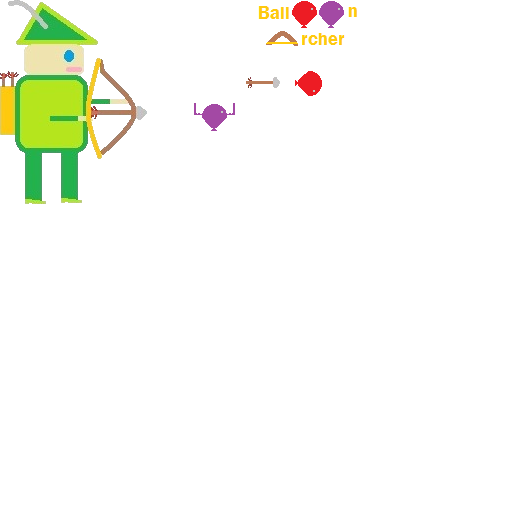
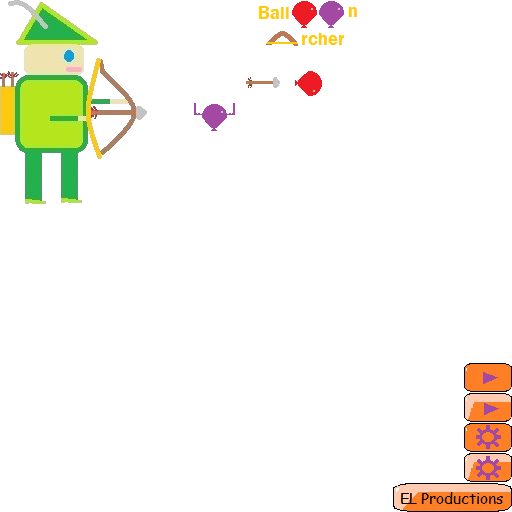
Menu Screen Backgrounds

Changed region(s): [[0.75, 0.6875, 1.0, 1.0]]

diff --git a/core/src/com/el/balloonArcher/screens/MenuScreen.java b/core/src/com/el/balloonArcher/screens/MenuScreen.java
@@ -3,7 +3,10 @@ package com.el.balloonArcher.screens;
 import com.badlogic.gdx.Game;
 import com.badlogic.gdx.Gdx;
 import com.badlogic.gdx.graphics.GL20;
+import com.badlogic.gdx.graphics.Texture;
 import com.badlogic.gdx.graphics.g2d.TextureAtlas;
+import com.badlogic.gdx.graphics.g2d.TextureRegion;
+import com.badlogic.gdx.scenes.scene2d.Actor;
 import com.badlogic.gdx.scenes.scene2d.Stage;
 import com.badlogic.gdx.scenes.scene2d.ui.Button;
 import com.badlogic.gdx.scenes.scene2d.ui.CheckBox;
@@ -14,6 +17,9 @@ import com.badlogic.gdx.scenes.scene2d.ui.Stack;
 import com.badlogic.gdx.scenes.scene2d.ui.Table;
 import com.badlogic.gdx.scenes.scene2d.ui.TextButton;
 import com.badlogic.gdx.scenes.scene2d.ui.Window;
+import com.badlogic.gdx.scenes.scene2d.utils.ChangeListener;
+import com.badlogic.gdx.scenes.scene2d.utils.Drawable;
+import com.badlogic.gdx.utils.viewport.StretchViewport;
 import com.el.balloonArcher.util.Constants;
 
 /**
@@ -42,7 +48,7 @@ public class MenuScreen extends AbstractGameScreen
     private Slider sldSound;
     private CheckBox chkMusic;
     private Slider sldMusic;
-    private SelectBox<CharacterSkin> selCharSkin;
+   // private SelectBox<CharacterSkin> selCharSkin;
     private Image imgCharSkin;
     private CheckBox chkShowFpsCounter;
     // debug
@@ -61,23 +67,62 @@ public class MenuScreen extends AbstractGameScreen
         Gdx.gl.glClearColor(0.0f, 0.0f, 0.0f, 1.0f);
         Gdx.gl.glClear(GL20.GL_COLOR_BUFFER_BIT);
 
-        if(Gdx.input.isTouched())
+  /*      if(Gdx.input.isTouched())
         {
             game.setScreen(new GameScreen(game));
         }
+*/
+        if (debugEnabled)
+        {
+            debugRebuildStage -= deltaTime;
+            if (debugRebuildStage <= 0)
+            {
+                debugRebuildStage = DEBUG_REBUILD_INTERVAL;
+                rebuildStage();
+            }
+        }
+
+        stage.act(deltaTime);
+        stage.draw();
+        //Table.drawDebug(stage);
     }
 
-    @Override public void resize (int width, int height) { }
-    @Override public void show () { }
-    @Override public void hide () { }
+    @Override public void resize (int width, int height)
+    {
+        stage.getViewport().update(width, height, true);
+    }
+
+    @Override public void show ()
+    {
+        stage = new Stage(new StretchViewport(Gdx.graphics.getWidth(), Gdx.graphics.getHeight()));
+        Gdx.input.setInputProcessor(stage);
+        rebuildStage();
+    }
+
+    @Override public void hide ()
+    {
+        stage.dispose();
+        skinBalloonArcher.dispose();
+    }
+
     @Override public void pause () { }
 
     private void rebuildStage ()
     {
 
-        skinBalloonArcher = new Skin(
+      /*  skinBalloonArcher = new Skin(
                 Gdx.files.internal(Constants.SKIN_BALLOONARCHER_UI),
-                new TextureAtlas(Constants.TEXTURE_ATLAS_UI));
+                new TextureAtlas(Constants.TEXTURE_ATLAS_UI));*/
+
+        skinBalloonArcher = new Skin();
+        skinBalloonArcher.add("logo",new TextureRegion(new Texture("images/main_screen_background.png"),258,0,100,47));
+        skinBalloonArcher.add("balloons",new TextureRegion(new Texture("images/main_screen_background.png"),188,71,135,61));
+        skinBalloonArcher.add("archer",new TextureRegion(new Texture("images/main_screen_background.png"),0,0,148,203));
+        skinBalloonArcher.add("info",new TextureRegion(new Texture("images/main_screen_background.png"),394,483,118,29));
+        skinBalloonArcher.add("background",new TextureRegion(new Texture("images/main_screen_background.png"),500,0,12,12));
+        skinBalloonArcher.add("play",new TextureRegion(new Texture("images/main_screen_background.png"),463,393,49,28));
+        skinBalloonArcher.add("options",new TextureRegion(new Texture("images/main_screen_background.png"),463,500,49,28));
+
 // build all layers
         Table layerBackground = buildBackgroundLayer();
         Table layerObjects = buildObjectsLayer();
@@ -99,30 +144,91 @@ public class MenuScreen extends AbstractGameScreen
     private Table buildBackgroundLayer ()
     {
         Table layer = new Table();
+        this.imgBackground = new Image(skinBalloonArcher.getRegion("background"));
         return layer;
     }
 
     private Table buildObjectsLayer ()
     {
         Table layer = new Table();
+        imgBalloons = new Image(skinBalloonArcher.getRegion("balloons"));
+        layer.addActor(imgBalloons);
+        imgBalloons.setPosition(135, 80);
+
+        imgArcher = new Image(skinBalloonArcher.getRegion("archer"));
+        layer.addActor(imgArcher);
+        imgArcher.setPosition(355, 40);
         return layer;
     }
 
     private Table buildLogosLayer ()
     {
         Table layer = new Table();
+        imgLogo = new Image(skinBalloonArcher.getRegion("logo"));
+        layer.addActor(imgLogo);
+        layer.row().expandY();
+
+        imgInfo = new Image(skinBalloonArcher.getRegion("info"));
+        layer.add(imgInfo).bottom();
+
+        if (debugEnabled)
+        {
+            layer.debug();
+        }
+
         return layer;
     }
 
     private Table buildControlsLayer ()
     {
         Table layer = new Table();
+        // + Play Button
+        Image imgMenuPlay = new Image(skinBalloonArcher.getRegion("play"));
+        btnMenuPlay = new Button(imgMenuPlay.getDrawable());
+
+        layer.add(btnMenuPlay);
+
+        btnMenuPlay.addListener(new ChangeListener()
+        {
+            @Override
+            public void changed (ChangeEvent event, Actor actor)
+            {
+                onPlayClicked();
+            }
+        });
+
+        layer.row();
+
+// + Options Button
+        Image imgMenuoptions = new Image(skinBalloonArcher.getRegion("options"));
+        btnMenuOptions = new Button(imgMenuoptions.getDrawable());
+
+        layer.add(btnMenuOptions);
+        btnMenuOptions.addListener(new ChangeListener()
+        {
+            @Override
+            public void changed (ChangeEvent event, Actor actor)
+            {
+                onOptionsClicked();
+            }
+        });
+
+        if (debugEnabled) layer.debug();
+
         return layer;
     }
 
     private Table buildOptionsWindowLayer ()
     {
         Table layer = new Table();
+        layer.right().bottom();
         return layer;
     }
+
+    private void onPlayClicked ()
+    {
+        game.setScreen(new GameScreen(game));
+    }
+
+    private void onOptionsClicked () { }
 }
